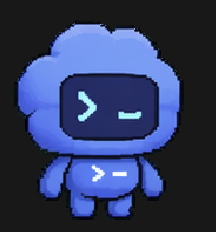
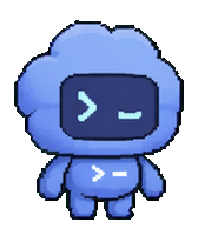
assets: make GPT mascot background transparent

diff --git a/README.md b/README.md
@@ -3,7 +3,7 @@
 Your live Claude Code and Codex usage on the MacBook Pro Touch Bar, with a
 small pixel creature pacing alongside it.
 
-![Claude and Codex usage on the Touch Bar](docs/demo.gif)
+![Claude and Codex usage with a transparent-background GPT mascot on the Touch Bar](docs/demo.gif)
 
 *Recorded with `make film` — the widget's own animation loop, rendered
 headless. No screen was filmed. The animation uses illustrative sample data.*
